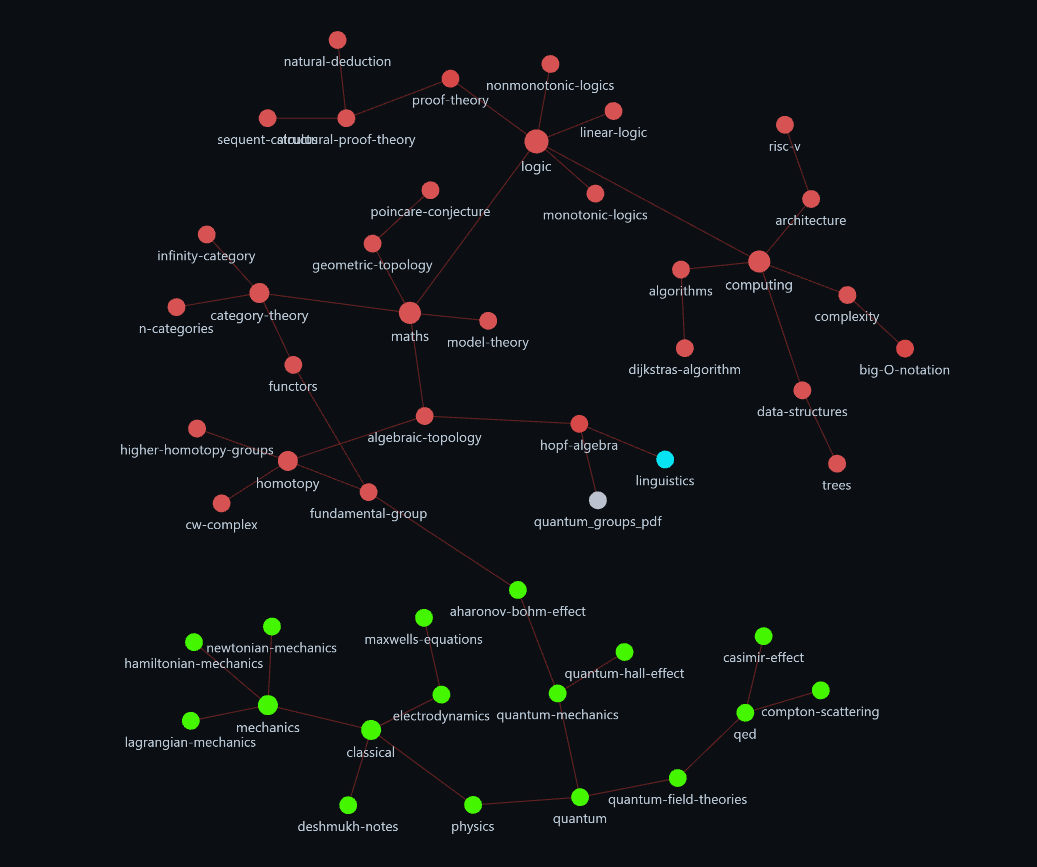
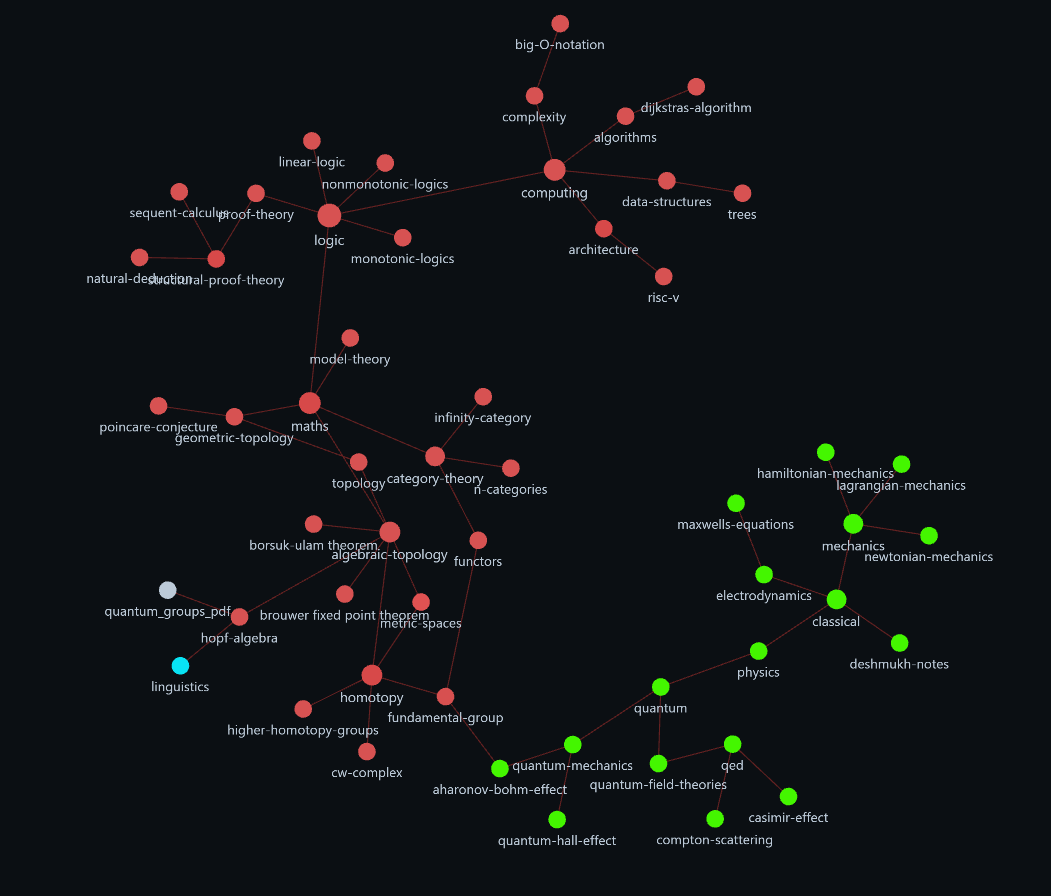
docs: borsuk-ulam thm and brouwer fp thm

diff --git a/maths/algebraic-topology/borsuk-ulam theorem.md b/maths/algebraic-topology/borsuk-ulam theorem.md
@@ -1,0 +1,93 @@
+---
+title: Borsuk–Ulam Theorem
+up:
+  - [[maths/algebraic-topology]]
+---
+
+<!-- PARENT: auto -->
+Parent: [[maths/algebraic-topology|algebraic topology]]
+<!-- /PARENT -->
+
+# Borsuk–Ulam Theorem
+
+**Theorem (Borsuk–Ulam).**  
+
+For any continuous map $$ f : S^n \to \mathbb{R}^n $$ there exists a point $$ x \in S^n $$ such that
+$$
+f(x) = f(-x).
+$$
+In other words, if you continuously squash a (2)-sphere into the plane, at least one pair of antipodal points on the sphere will be mapped to the same point.
+
+---
+## 1-dimensional case
+
+Let $f : S^1 \to \mathbb{R}$. Define
+$$
+g(x) = f(x) - f(-x).
+$$
+Then $g$ is continuous and **odd** (i.e. $g(-x) = -g(x)$).
+
+- If $g(x) = 0$ for some $x$, we are done.  
+- Otherwise, suppose $g(x) > 0$ at some $x$. Then $g(-x) < 0$.  
+- By the intermediate value theorem, $g$ must vanish somewhere in between.  
+
+Hence $f(x) = f(-x)$ for some $x$.
+
+---
+
+## 2-dimensional case (sketch)
+
+For $f : S^2 \to \mathbb{R}^2$, one can argue via covering space theory:
+
+- Suppose no pair of antipodal points maps to the same place.  
+- Construct an odd map $S^2 \to S^1$ by normalizing $f(x)-f(-x)$.  
+- But there is no continuous odd map $S^2 \to S^1$ (since it would lift to a contradiction in $\mathbb{R}^2$ via the covering $S^1 \to \mathbb{R}P^1$).  
+
+Thus the theorem holds for $n=2$.
+
+---
+
+## Sketch of Proof (via homology)
+
+1. **Contrapositive setup.**  
+   Assume no such $x$ exists, i.e. $f(x) \neq f(-x)$ for all $x$.
+
+2. **Define an odd map.**  
+   Construct  
+   $$
+   g(x) = \frac{f(x) - f(-x)}{\lVert f(x) - f(-x)\rVert} : S^n \to S^{n-1},
+   $$
+   which satisfies $g(-x) = -g(x)$.
+
+3. **Descend to projective space.**  
+   The antipodal symmetry means $g$ factors through real projective space:  
+   $S^n \twoheadrightarrow \mathbb{R}P^n \xrightarrow{\;\tilde g\;} S^{n-1}$.
+
+4. **Homological contradiction.**  
+   - $H_n(\mathbb{R}P^n; \mathbb{Z}_2) \cong \mathbb{Z}_2$.  
+   - $S^{n-1}$ has trivial $H_n$.  
+   - So any map $\mathbb{R}P^n \to S^{n-1}$ must kill the top homology class.  
+   - But construction forces a nontrivial map on top homology (degree considerations).
+
+5. **Contradiction.**  
+   Hence such a point $x$ must exist.
+
+---
+
+## Note: Even/Odd as Group Actions
+
+For $f:\mathbb{R}\to\mathbb{R}$:
+
+- **Even:** $f(-x)=f(x)$  
+  → Invariant under the $\mathbb{Z}_2$ action $x \mapsto -x$ on the domain.  
+  → Factors through the quotient $\mathbb{R}/(x\sim -x)$.
+
+- **Odd:** $f(-x)=-f(x)$  
+  → Equivariant for the $\mathbb{Z}_2$ action on both domain and codomain (sign action).  
+
+In other words,
+
+- *Even = $\mathbb{Z}_2$-invariant map.*  
+- *Odd = $\mathbb{Z}_2$-equivariant map (with sign action on target).*
+
+This is the perspective used in **equivariant topology**.

diff --git a/maths/algebraic-topology/brouwer fixed point theorem.md b/maths/algebraic-topology/brouwer fixed point theorem.md
@@ -1,0 +1,85 @@
+---
+title: Brouwer Fixed Point Theorem
+up:
+  - [[maths/algebraic-topology]]
+---
+
+<!-- PARENT: auto -->
+Parent: [[maths/algebraic-topology|algebraic topology]]
+<!-- /PARENT -->
+
+# Brouwer Fixed Point Theorem
+
+**Theorem.**  
+Every continuous map $f : D^n \to D^n$ has a fixed point:
+$$
+\exists x \in D^n \quad \text{with} \quad f(x) = x.
+$$
+
+Here $D^n = \{ x \in \mathbb{R}^n : \lVert x \rVert \le 1 \}$ is the closed $n$-disk.
+
+---
+
+## Low-dimensional proofs
+
+### Case $n=1$ (interval)
+
+Let $f:[0,1] \to [0,1]$ be continuous. Define $g(x) = f(x) - x$.
+
+- $g(0) = f(0) \ge 0$,  
+- $g(1) = f(1) - 1 \le 0$.  
+
+By the Intermediate Value Theorem, $g$ must vanish at some $c \in [0,1]$, i.e. $f(c) = c$.
+
+---
+
+### Case $n=2$ (disk)
+
+Suppose, for contradiction, that $f:D^2\to D^2$ has no fixed point.
+
+1. **Build a retraction.**  
+   For each $x\in D^2$, draw the ray from $f(x)$ through $x$.  
+   This ray meets the boundary $S^1$ at a unique point $r(x)$.  
+   Then $r:D^2\to S^1$ is continuous and satisfies $r|_{S^1}=\mathrm{id}_{S^1}$.  
+   So $r$ is a **retraction**.
+
+2. **Contradiction via fundamental groups.**  
+   If $r$ exists, then $r \circ i = \mathrm{id}_{S^1}$ where $i:S^1 \hookrightarrow D^2$ is inclusion.  
+   On $\pi_1$:  
+   $$
+   r_* \circ i_* = \mathrm{id}_{\pi_1(S^1)}.
+   $$
+   But $\pi_1(D^2)=0$, so $i_*$ is the zero map.  
+   Contradiction.  
+
+Hence $f$ must have a fixed point.
+
+---
+
+## Higher dimensions ($n \ge 3$)
+
+The same retraction idea applies:
+
+- **No fixed point assumption** gives a retraction $r: D^n \to S^{n-1}$.
+- But topology forbids such a retraction.  
+- Proving this requires **heavier tools**:
+
+### Homology version
+- $H_{n-1}(S^{n-1}) \cong \mathbb{Z}$,  
+- $H_{n-1}(D^n) = 0$.  
+- If a retraction existed, the induced map on homology would send a generator of $H_{n-1}(S^{n-1})$ to a nontrivial class in $H_{n-1}(D^n)$ — impossible.
+
+### Degree theory version
+- The identity on $S^{n-1}$ has degree $\pm 1$.  
+- If it factored through $D^n$, the degree would have to be $0$.  
+- Contradiction.
+
+---
+
+## Summary of methods
+
+- **$n=1$:** Intermediate Value Theorem (analysis).  
+- **$n=2$:** Fundamental group $\pi_1(S^1) \cong \mathbb{Z}$ (elementary algebraic topology).  
+- **$n\ge 3$:** Homology or degree theory (higher algebraic topology).  
+
+Thus the core of Brouwer’s theorem in *all* dimensions is the impossibility of retracting the disk $D^n$ onto its boundary $S^{n-1}$.

diff --git a/maths/topology/metric-spaces.md b/maths/topology/metric-spaces.md
@@ -1,0 +1,32 @@
+---
+title: Metric Spaces
+up:
+  - [[maths/topology]]
+---
+
+<!-- PARENT: auto -->
+Parent: [[maths/topology|topology]]
+<!-- /PARENT -->
+
+**Definition.**  
+A **metric space** is a pair $(X,d)$ where $d:X\times X\to \mathbb{R}$ satisfies:
+
+1. $d(x,y)\ge 0$ with equality iff $x=y$,  
+2. $d(x,y)=d(y,x)$,  
+3. $d(x,z)\le d(x,y)+d(y,z)$ (triangle inequality).
+
+---
+
+## Relation to Topology
+
+- Every metric induces a topology via **open balls**.  
+- Thus every metric space is a topological space, but not every topological space is metrizable.
+
+---
+
+## Cross-links
+
+- Compactness in metric spaces → TODO
+- Connectedness in metric spaces → TODO
+- Homotopy theory uses path-connectedness → [[maths/algebraic-topology/homotopy|homotopy]]  
+- Algebraic invariants often assume underlying metric/topological structure → [[maths/algebraic-topology|algebraic topology]]

diff --git a/work stuff to research.md b/work stuff to research.md
@@ -1,0 +1,22 @@
+fastapi for python
+learn more about node.js
+spring for java, or kotlin
+async (rust) / asyncio (python) - - Proficiency writing network services/asynchronous code
+lifetimes (rust) - also c++ vs rust
+more kubernetes
+react/go
+more typescript
+read a bit on distributed systems
+RESTful / ACID
+kafka/mapreduce?
+LGTM framework! also ELK?
+django?
+ debug issues across the stack, including OS, network, and application layers
+ modern HTML, CSS and JavaScript
+ Skills with functional Java (versions 8+) and Spring (ideally Springboot)
+ Azure and Snowflake
+  architecture frameworks (e.g. TOGAF, Zachman, etc.
+[Data Engineer | Job details | Find a job](https://findajob.dwp.gov.uk/details/17171898)
+writing tests in Jest, Cypress or Playwright
+ web interfaces with large DOM views
+ TensorFlow, PyTorch, or Keras

diff --git a/maths/topology.md b/maths/topology.md
@@ -1,0 +1,16 @@
+---
+title: Topology
+desc: 'General topology: open sets, metric spaces, compactness, connectedness, etc.'
+---
+
+This is the parent note for **general topology**.
+TODO: compactness
+TODO: connectedness
+
+### Children
+- [[maths/topology/metric-spaces|Metric Spaces]]
+---
+
+### Cross-links
+- [[maths/algebraic-topology|Algebraic Topology]]
+- [[maths/geometric-topology|Geometric Topology]]
